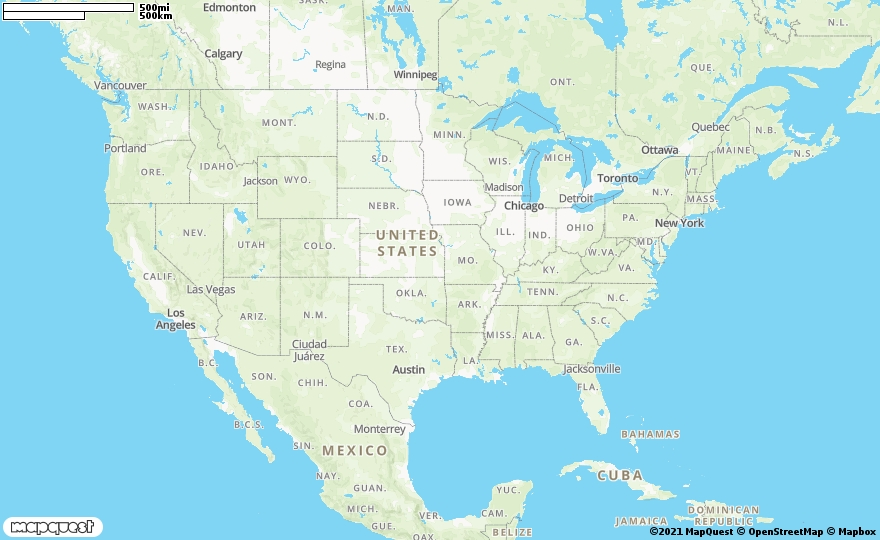
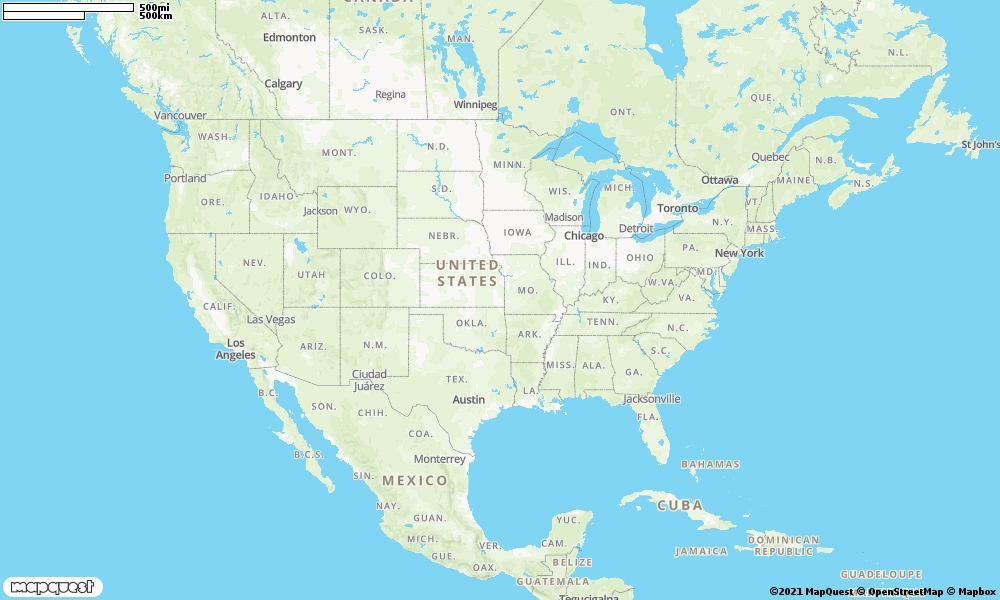
did stuff!

diff --git a/map/src/views/Home.vue b/map/src/views/Home.vue
@@ -1,7 +1,13 @@
 <template>
   <div class="home">
-    <img :src="mapURL" alt="Map" @click="getCoords($event)" />
-    <div class="direction-container">
+    <div class="map-container">
+      <img class="quest-map" :src="mapURL" alt="Map" @click="getCoords($event)" />
+      <canvas class="quest-canvas" width="1120" height="672">
+        <img src />
+      </canvas>
+    </div>
+    
+    <!-- <div class="direction-container">
       <div @click="newMapNW()">NW</div>
       <div @click="newMapNorth()">N</div>
       <div @click="newMapNE()">NE</div>
@@ -11,12 +17,8 @@
       <div @click="newMapSW()">SW</div>
       <div @click="newMapSouth()">S</div>
       <div @click="newMapSE()">SE</div>
-    </div>
+    </div> -->
     <!-- <HelloWorld msg="Welcome to Your Vue.js App"/> -->
-
-    <canvas width="1480" height="850">
-      <img src />
-    </canvas>
   </div>
 </template>
 
@@ -294,6 +296,21 @@ export default {
   flex-direction: column;
   align-items: center;
 }
+
+.map-container {
+  width: 70rem;
+  height: 42rem;
+}
+
+.quest-map {
+  width: 100%;
+  height: 100%;
+}
+
+/* .quest-canvas {
+  width: 100%;
+  height: 100%;
+} */
 
 .direction-container {
   width: 10rem;

diff --git a/map/src/APICalls.js b/map/src/APICalls.js
@@ -4,7 +4,7 @@ export default {
   async getMap(latTop, longLeft, latBot, longRight) {
     try {
       const response = await fetch(
-        `http://www.mapquestapi.com/staticmap/v4/getmap?key=${mapQuestKey}&bestfit=${latTop},${longLeft},${latBot},${longRight}&size=880,540`,
+        `http://www.mapquestapi.com/staticmap/v4/getmap?key=${mapQuestKey}&bestfit=${latTop},${longLeft},${latBot},${longRight}&size=1000,600`,
         {
           method: "GET",
         }
